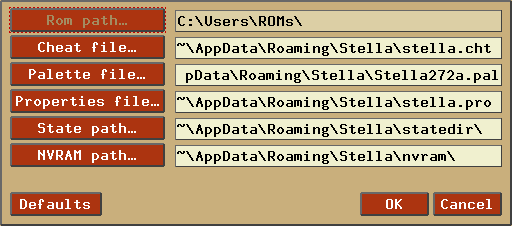
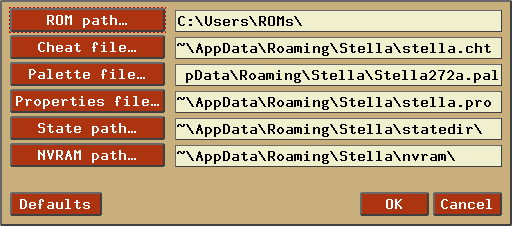
Minor spelling fixes

Changed region(s): [[0.3438, 0.031, 1.0, 0.1549], [0.0938, 0.0619, 0.25, 0.1239]]

diff --git a/docs/index.html b/docs/index.html
@@ -2648,7 +2648,7 @@
       <td valign="top">
         <table border="1" cellpadding="4">
           <tr><th>Item</th><th>Brief description</th><th>For more information,<br>see <a href="#CommandLine">CommandLine</a></th></tr>
-          <tr><td>Rom path</td><td>Specifies location of ROM files</td><td>-romdir</td></tr>
+          <tr><td>ROM path</td><td>Specifies location of ROM files<br/>(only enabled in ROM launcher mode)</td><td>-romdir</td></tr>
           <tr><td>Cheat file</td><td>Specifies location of cheatfile database</td><td>-cheatfile</td></tr>
           <tr><td>Palette file</td><td>Specifies location of user palette</td><td>-palettefile</td></tr>
           <tr><td>Properties file </td><td>Specifies location of external stella.pro database</td><td>-propsfile</td></tr>
@@ -3060,7 +3060,7 @@
           <tr><th>Item</th><th>Brief description</th><th>For more information,<br>see <a href="#CommandLine">CommandLine</a></th></tr>
           <tr><td>Player 0 <br/>Missile 0 <br/>Player 1 <br/>
             Missile 1 <br/>Playfield <br/>Ball </td>
-          <td>Set color for specific object in debug colors mode<br/>(PF0, PF1 and PF2 are have slightly different luminance,<br/>disabled in ROM Launcher mode)</td><td>-tia.dbgcolors</td></tr>
+          <td>Set color for specific object in debug colors mode<br/>(PF0, PF1 and PF2 are have slightly different luminance,<br/>disabled in ROM launcher mode)</td><td>-tia.dbgcolors</td></tr>
         </table>
       </td>
     </tr>
